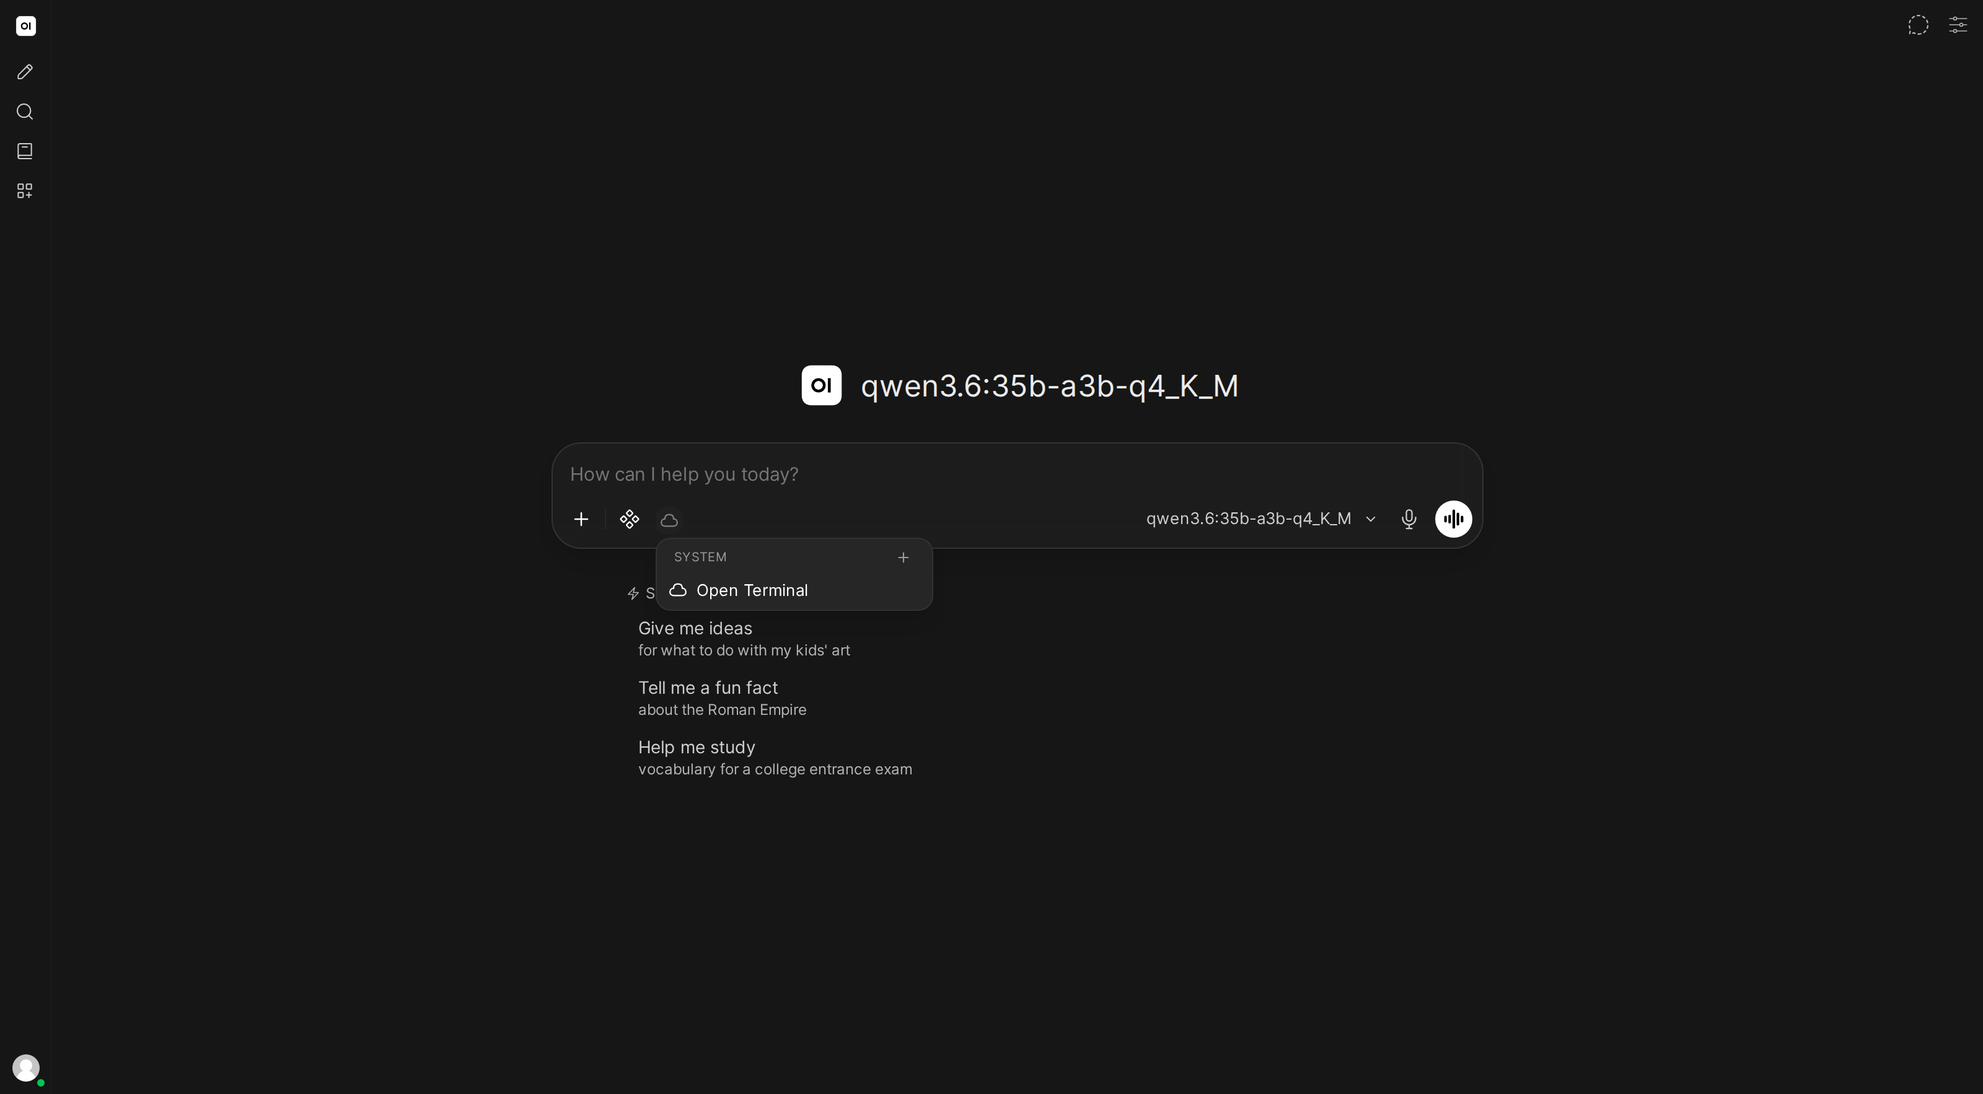
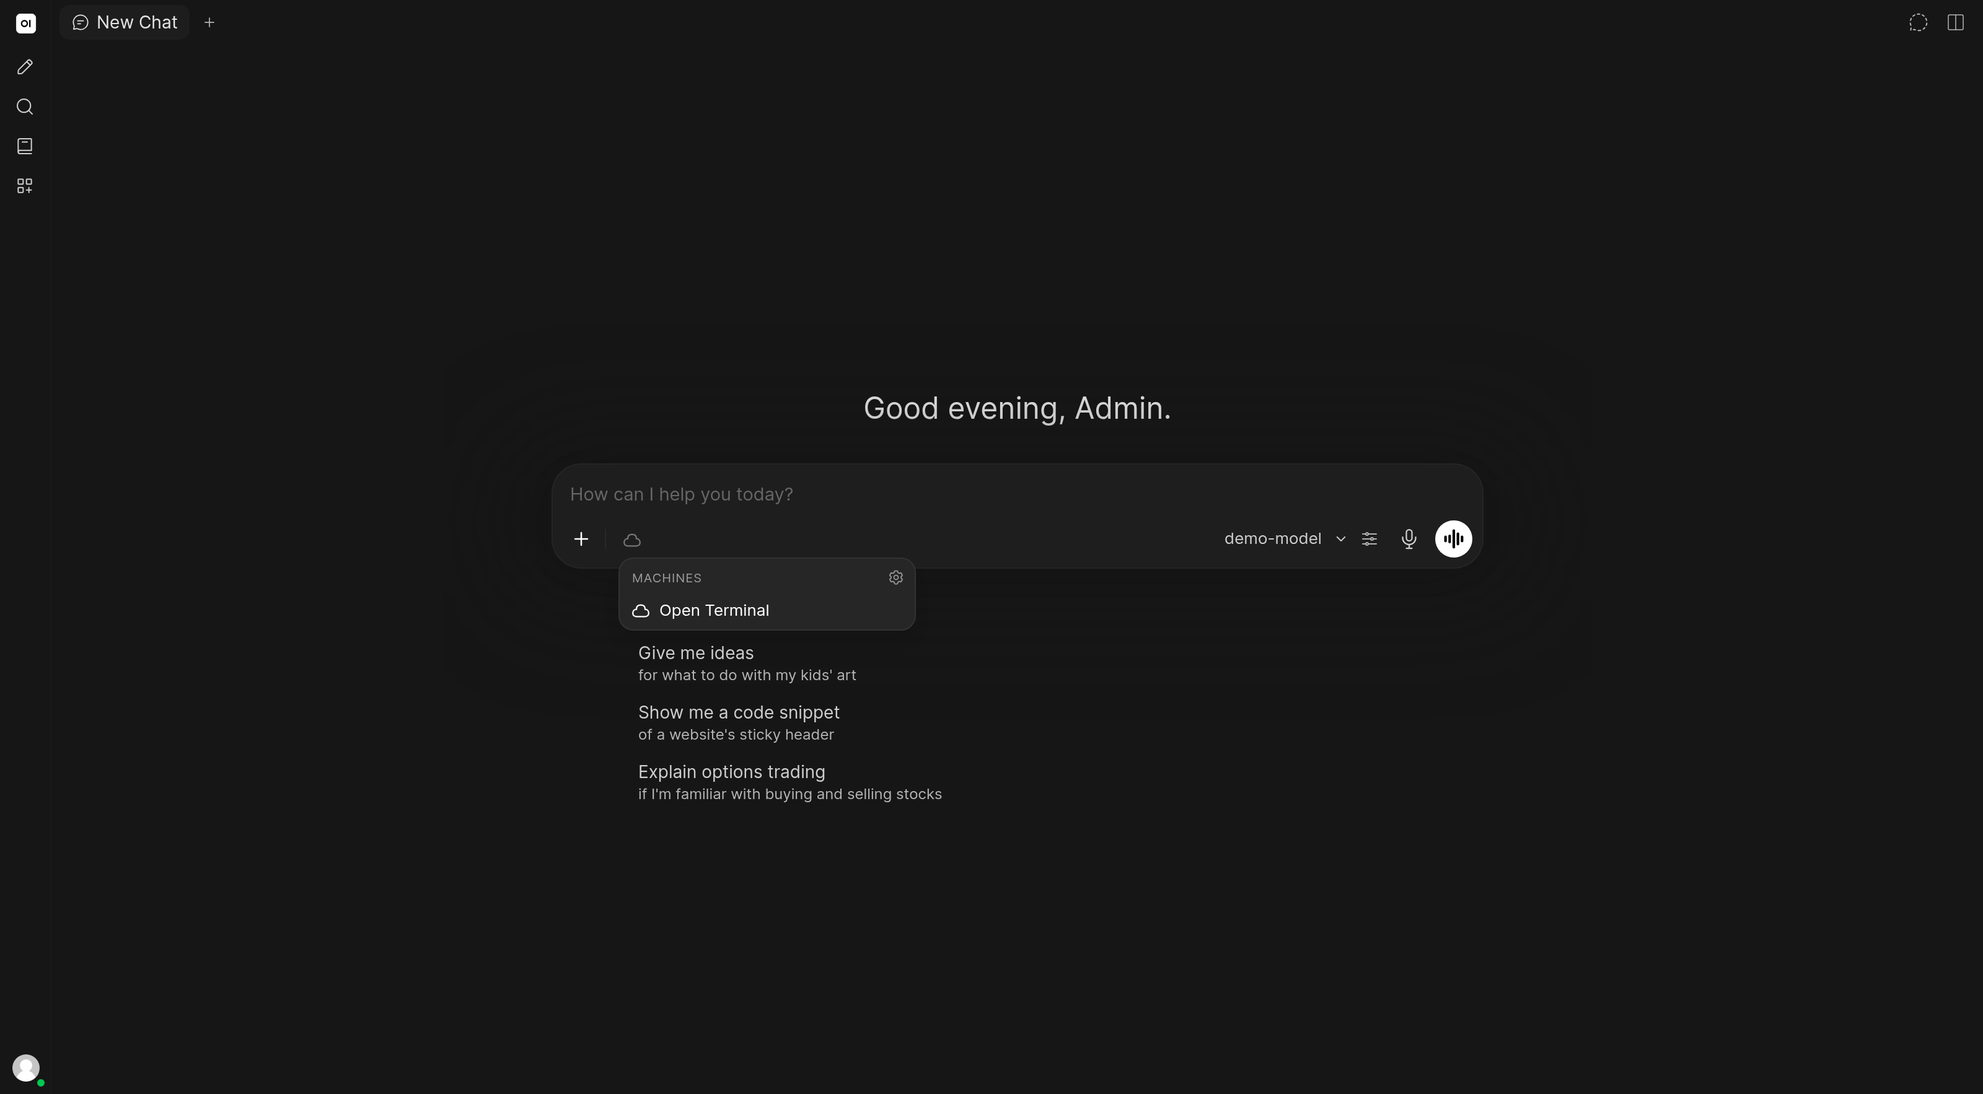
Rename terminal headings to machines and retake Open Terminal screenshots
Headings that name the object you add or pick now say machine, matching the app, and links to the renamed sections are updated. Five Open Terminal screenshots now show the Machines section, the Add Machine and Edit Machine dialogs and the machine menu in chat.

diff --git a/docs/features/open-terminal/setup/connecting.md b/docs/features/open-terminal/setup/connecting.md
@@ -51,7 +51,7 @@ Add Open Terminal in the **Machines** section, not in the **Tools** section unde
 | **User Shell Tools** | Under **Advanced**. Leave as `Automatic`. [User Shell Tools](#user-shell-tools) covers what `Always Include` changes |
 | **Forward cookies** | Under **Advanced**, off by default. Only turn it on for a machine that authenticates by cookie, since every cookie the browser holds for your Open WebUI domain travels with the request |
 
-![The form for adding an Open Terminal connection with the Name, URL, Chat Uploads and Auth fields still empty](/images/open-terminal-connection-form.png)
+![The Add Machine form with Name, URL and API Key still empty](/images/open-terminal-connection-form.png)
 
 ### 5. Save
 
@@ -66,14 +66,14 @@ Limit access to specific user groups via the access control button.
 ![The access control panel listing user groups with checkboxes](/images/open-terminal-access-grants.png)
 
 :::tip Orchestrator connections can be scoped further
-A connection to a [Terminals orchestrator](/features/open-terminal/terminals/) has **Read** and **Write** access. Users with **Write** create their own machines from the machine menu in the message input, each with its own image, resources, environment variables and sharing. See [Creating Terminals](/features/open-terminal/terminals/orchestration/creating-terminals). A direct Open Terminal connection has no machines to create and is available to everyone with access.
+A connection to a [Terminals orchestrator](/features/open-terminal/terminals/) has **Read** and **Write** access. Users with **Write** create their own machines from the machine menu in the message input, each with its own image, resources, environment variables and sharing. See [Creating Machines](/features/open-terminal/terminals/orchestration/creating-terminals). A direct Open Terminal connection has no machines to create and is available to everyone with access.
 :::
 
-### 7. Select a terminal in chat
+### 7. Select a machine in chat
 
 In the chat input area, click the cloud icon. Your machines appear under **Machines**. Select one to activate it for the conversation.
 
-![The chat input menu listing Open Terminal as a connection](/images/open-terminal-chat-dropdown.png)
+![The machine menu in the chat input listing Open Terminal](/images/open-terminal-chat-dropdown.png)
 
 The selected machine name appears next to the cloud icon. The AI can now execute commands, read files, and run code through it. You can pick another machine at any time except while a reply is generating.
 
@@ -115,7 +115,7 @@ For Docker deployments, you can configure machines automatically using the [`MAC
 
 ---
 
-## Your own terminal (Tether)
+## Your own machine (Tether)
 
 Without admin access, add a machine in the Tether app. It is yours alone and its URL and key stay on your computer. See [Bring Your Own Models and Tools](/ecosystem/tether#bring-your-own-models-and-tools).
 
@@ -214,18 +214,18 @@ docker exec open-webui curl -s http://open-terminal:8000/health
 If it prints `{"status": "ok"}`, the connection works. If it errors, the containers can't see each other.
 :::
 
-### Terminal shows up but AI doesn't use it
+### Machine shows up but AI doesn't use it
 
 Make sure:
 - The toggle switch next to the connection is **turned on**. Turning it off takes the machine out of service completely: the model is not given its tools, the terminal and file browser refuse to connect, and any proxied request to it is rejected. It is a working off switch, not just a hint to the model, so use it to retire a machine without deleting the connection.
 - You've **refreshed the page** after adding the connection
 - Your model supports tool calling (most modern models do)
 
-### Terminal is missing from the picker
+### Machine is missing from the picker
 
 Only machines the user is allowed to use are listed, so check the connection's access grants and that the connection is enabled.
 
-For an orchestrator connection, a machine is listed for you only when it is shared with you or you have **Write** access to the connection. A machine with a separate instance per chat is hidden in temporary chats because it needs a saved conversation. See [Creating Terminals](/features/open-terminal/terminals/orchestration/creating-terminals#machine-scope).
+For an orchestrator connection, a machine is listed for you only when it is shared with you or you have **Write** access to the connection. A machine with a separate instance per chat is hidden in temporary chats because it needs a saved conversation. See [Creating Machines](/features/open-terminal/terminals/orchestration/creating-terminals#machine-scope).
 
 ### Wrong API key
 

diff --git a/docs/features/open-terminal/file-browser.md b/docs/features/open-terminal/file-browser.md
@@ -222,7 +222,7 @@ With a machine selected, the **Working Directory** button (folder icon) next to 
 
 ### Cloning a repository
 
-When the machine supports Git, the **Open folder** dialog and the folder picker in the [folder settings](/features/chat-conversations/chat-features/conversation-organization#default-terminal-and-working-directory) have **Clone repository**. Enter an HTTP(S) or SSH repository URL and it is cloned into a new folder named after the repository, inside the folder you are in, which then becomes the chosen folder. The clone runs `git clone` on the terminal, so the terminal needs Git, network access to the remote and, for a private repository, credentials already set up on the terminal. Git does not prompt for a password, and an SSH host must already be in the terminal's known hosts.
+When the machine supports Git, the **Open folder** dialog and the folder picker in the [folder settings](/features/chat-conversations/chat-features/conversation-organization#default-machine-and-working-directory) have **Clone repository**. Enter an HTTP(S) or SSH repository URL and it is cloned into a new folder named after the repository, inside the folder you are in, which then becomes the chosen folder. The clone runs `git clone` on the terminal, so the terminal needs Git, network access to the remote and, for a private repository, credentials already set up on the terminal. Git does not prompt for a password, and an SSH host must already be in the terminal's known hosts.
 
 ---
 
@@ -269,7 +269,7 @@ If you have more than one machine connected, switching between them in the dropd
 :::
 
 :::info Terminals that give each chat its own files
-A machine can give every conversation an instance of its own, so each chat has its own files. Such a machine needs the conversation to exist first: the file browser appears once you have sent the first message, and a new chat lists such a machine but its files and details open once the chat is saved. Temporary chats do not list it. To browse a machine's files without selecting it, use **View files** in its **More** menu. See [Creating Terminals](/features/open-machine/machines/orchestration/creating-machines).
+A machine can give every conversation an instance of its own, so each chat has its own files. Such a machine needs the conversation to exist first: the file browser appears once you have sent the first message, and a new chat lists such a machine but its files and details open once the chat is saved. Temporary chats do not list it. To browse a machine's files without selecting it, use **View files** in its **More** menu. See [Creating Machines](/features/open-machine/machines/orchestration/creating-machines).
 :::
 
 ## More things to try

diff --git a/docs/features/open-terminal/terminals/orchestration/creating-terminals.md b/docs/features/open-terminal/terminals/orchestration/creating-terminals.md
@@ -1,9 +1,9 @@
 ---
 sidebar_position: 1
-title: "Creating Terminals"
+title: "Creating Machines"
 ---
 
-# Creating Terminals
+# Creating Machines
 
 A **machine** is a ready-made workspace the AI can run commands and work with files in. You create it yourself from the chat, give it a name and decide who can use it. Each machine starts one or more **instances**, the containers where the commands run.
 
@@ -22,7 +22,7 @@ Add the connection in **Settings > Integrations** (admin section) as described i
 | **Read** | See and use the machines that are shared with them |
 | **Write** | Create and manage machines on this server, and see every machine on it |
 
-## Create a Terminal
+## Create a Machine
 
 1. Open the machine menu in the message input (the cloud icon). With **Write** access it shows even before you have a machine.
 2. Under **Machines**, click **New machine**.
@@ -67,7 +67,7 @@ People with access to a machine can run commands in it. With **Separate instance
 
 The **Instances** list in the dialog shows every instance of the machine with its name and whether it is running or stopped. Open the **More options** menu of a row to act on it. A running instance offers **Restart** and **Stop**, plus **System info** and **View files**. A stopped one offers **Start**. Every instance offers **Delete instance**. While an action runs, the row shows what is happening (**Restarting...**, **Stopping...**, **Starting...** or **Deleting...**) with a spinner. **Delete machine** removes the machine and its instances and files.
 
-## Terminal Menu
+## Machine Menu
 
 Each machine in the menu has a **More** menu with **Restart** and **Stop** while the instance runs or **Start** while it is stopped. While the instance runs it also lists **System info** and **View files**. **Machine settings** is always there. **View files** opens the [file browser](/features/open-terminal/file-browser) for that machine without selecting it for the chat. **System info** shows CPU, memory, disk and network use, uptime and top processes, and refreshes every 5 seconds while open.
 

diff --git a/docs/features/workspace/skills.md b/docs/features/workspace/skills.md
@@ -74,7 +74,7 @@ Type `$` in the chat input, or use the `/` menu, and pick a skill. With the [ski
 
 ### Per-chat skills
 
-The **+** menu > **Skills** turns skills on for the current chat. The list is grouped into **Workspace** and the selected machine, named after it, see [Skills from a machine](#skills-from-a-terminal-server). A badge shows how many are on. Selected skills load like skills mentioned with `$`.
+The **+** menu > **Skills** turns skills on for the current chat. The list is grouped into **Workspace** and the selected machine, named after it, see [Skills from a machine](#skills-from-a-machine). A badge shows how many are on. Selected skills load like skills mentioned with `$`.
 
 ### Model-attached skills
 
@@ -115,7 +115,7 @@ Two settings in **Settings > General** (admin section) set how much of a skill t
 
 Leave a field empty for the default, or set [`SKILL_CONTENT_MAX_CHARS`](/reference/env-configuration#skill_content_max_chars) and [`SKILL_PREVIEW_MAX_CHARS`](/reference/env-configuration#skill_preview_max_chars).
 
-### Skills from a terminal server
+### Skills from a machine
 
 A connected [Open Terminal](/features/open-terminal) machine can carry its own skills, kept in the workspace next to the files they describe. Open WebUI reads them from the server and offers them in the `$` picker beside your workspace skills, under ids of the form `terminal:<url-encoded name>`. They behave like any other skill: `$` mention injects the content, otherwise they sit in the same manifest and load through `view_skill`. What gets injected carries the skill's directory and the files it ships with, so the model knows where to read them from in the workspace. `read_skill_file` pages through a terminal skill's `SKILL.md` and `grep_skill_files` searches it; its other files stay on the machine, and the model opens them with the machine's own file tools. The skill editor, version history and `update_skill_files` work on workspace skills.
 

diff --git a/docs/features/open-terminal/advanced/multi-user.md b/docs/features/open-terminal/advanced/multi-user.md
@@ -103,7 +103,7 @@ For larger deployments or when you need real isolation, [**Terminals**](../termi
 - **Resource controls**: set CPU, memory and storage limits per machine, within the server maximums
 - **Multiple environments**: users with write access create machines with different setups for different teams (e.g., data science, development) and share them with users and groups
 - **Backends**: Docker, Kubernetes or the Kubernetes Operator
-- **Scoped instances**: a machine can run one instance per user, saved chat or model, see [Creating Terminals](/features/open-terminal/terminals/orchestration/creating-terminals#machine-scope)
+- **Scoped instances**: a machine can run one instance per user, saved chat or model, see [Creating Machines](/features/open-terminal/terminals/orchestration/creating-terminals#machine-scope)
 - **Network on the Docker backend**: with `TERMINALS_DOCKER_NETWORK` set, instances share that Docker network, the orchestrator reaches each one by name and an instance can reach a port another user's instance has opened. Without it, the orchestrator reaches instances through their published ports on the Docker host. A terminal's **Network** setting picks one of the network profiles an admin defined in `TERMINALS_NETWORK_PROFILES`, which can place it on another Docker network. Files and processes stay separate. For mutually untrusted users, run the Kubernetes backend and add a NetworkPolicy
 
 ```mermaid

diff --git a/docs/reference/server-side-tool-calling.md b/docs/reference/server-side-tool-calling.md
@@ -75,7 +75,7 @@ When you pick a model in the browser, the frontend reads `meta.terminalId` off t
 You can read a model's configured terminal with `GET /api/v1/models/model?id=<model-id>` and use `meta.terminalId`, or just pick one from `/api/v1/machines/`, which already lists only the machines your user is allowed to use.
 :::
 
-### Terminal scope
+### Machine scope
 
 Machines on a Terminals server carry a `scope`: `null`, `user`, `chat` or `model`. It decides what your request must carry to use the machine:
 
@@ -85,7 +85,7 @@ Machines on a Terminals server carry a `scope`: `null`, `user`, `chat` or `model
 | `chat` | A saved `chat_id`. Each chat gets its own instance |
 | `model` | A model you have access to |
 
-Read `scope` before choosing a machine. For a `chat` machine you have to use [Path A](#path-a-full-agentic-loop) with a real saved chat, because [Path B](#path-b-one-request-answer-in-the-body) never creates one. [Creating Terminals](/features/open-terminal/terminals/orchestration/creating-terminals#machine-scope) covers what each scope does.
+Read `scope` before choosing a machine. For a `chat` machine you have to use [Path A](#path-a-full-agentic-loop) with a real saved chat, because [Path B](#path-b-one-request-answer-in-the-body) never creates one. [Creating Machines](/features/open-terminal/terminals/orchestration/creating-terminals#machine-scope) covers what each scope does.
 
 ---
 

diff --git a/docs/features/open-terminal/terminals/tab-deployment/Kubernetes.md b/docs/features/open-terminal/terminals/tab-deployment/Kubernetes.md
@@ -41,7 +41,7 @@ helm upgrade --install open-webui open-webui/open-webui \
 ```
 
 :::tip Auto-configured connection
-When `terminals.enabled` is `true`, the chart sets `TERMINAL_SERVER_CONNECTIONS` to point at the in-cluster orchestrator. In **Settings > Integrations** (admin section), open the connection and save it once, so Open WebUI detects it as an orchestrator. Give the people who create terminals **Write** access in the connection's **Access** setting, see [Creating Terminals](/features/open-terminal/terminals/orchestration/creating-terminals).
+When `terminals.enabled` is `true`, the chart sets `TERMINAL_SERVER_CONNECTIONS` to point at the in-cluster orchestrator. In **Settings > Integrations** (admin section), open the connection and save it once, so Open WebUI detects it as an orchestrator. Give the people who create terminals **Write** access in the connection's **Access** setting, see [Creating Machines](/features/open-terminal/terminals/orchestration/creating-terminals).
 :::
 
 The Terminal CRD must define `spec.templateId`. The CRD bundled with the Helm chart requires `spec.userId`, so install the CRD from the [Terminals repository](https://github.com/open-webui/terminals/blob/main/manifests/terminal-crd.yaml) for your Terminals version and set `terminals.crd.install: false`.

diff --git a/docs/features/open-terminal/terminals/tab-deployment/Docker.md b/docs/features/open-terminal/terminals/tab-deployment/Docker.md
@@ -76,7 +76,7 @@ Then start everything:
 docker compose up -d
 ```
 
-Open WebUI will be available at `http://localhost:3000`. The connection above gives every user **Read** access, so users can use terminals that are shared with them. Give the people who create terminals **Write** access in the connection's **Access** setting, see [Creating Terminals](/features/open-terminal/terminals/orchestration/creating-terminals). When a user opens a terminal, the orchestrator provisions the instance automatically.
+Open WebUI will be available at `http://localhost:3000`. The connection above gives every user **Read** access, so users can use terminals that are shared with them. Give the people who create terminals **Write** access in the connection's **Access** setting, see [Creating Machines](/features/open-terminal/terminals/orchestration/creating-terminals). When a user opens a terminal, the orchestrator provisions the instance automatically.
 
 :::warning Docker socket access
 The orchestrator needs access to the Docker socket (`/var/run/docker.sock`) to manage containers. For production, use a Docker socket proxy like [Tecnativa/docker-socket-proxy](https://github.com/Tecnativa/docker-socket-proxy) to restrict the API calls it can make.

diff --git a/docs/features/chat-conversations/chat-features/conversation-organization.md b/docs/features/chat-conversations/chat-features/conversation-organization.md
@@ -148,7 +148,7 @@ Customize the visual appearance of your folder by uploading a background image. 
 
 Pick the model new chats in this folder start with, or leave it on **Use default** to fall back to your usual default. Switching models inside one of the folder's chats leaves the folder's default as it is; change it here.
 
-### Default Terminal and Working Directory
+### Default Machine and Working Directory
 
 Under **Advanced**, **Default machine** picks the machine new chats in this folder start with. Once one is picked, **Working directory** sets the path on that machine where those chats start; leave it empty to use the machine's own default. Its folder button browses the machine's directories, where you can also [clone a Git repository](/features/open-terminal/file-browser#cloning-a-repository) into a new folder. With a default machine picked, **Default Model** also offers that machine's [coding agents](/features/open-terminal/coding-agents). These settings apply to new chats only.
 

diff --git a/docs/features/open-terminal/terminals/orchestration/index.md b/docs/features/open-terminal/terminals/orchestration/index.md
@@ -21,7 +21,7 @@ When a user works in a terminal, Open WebUI sends the request to the orchestrato
 
 ## Read This Section
 
-- [Creating Terminals](/features/open-terminal/terminals/orchestration/creating-terminals): the dialog, instance scope, sharing and managing instances.
+- [Creating Machines](/features/open-terminal/terminals/orchestration/creating-terminals): the dialog, instance scope, sharing and managing instances.
 - [Environment Variables](/features/open-terminal/terminals/orchestration/environment-variables): raw env values, quote handling, forwarding behavior and reserved keys.
 - [Custom Images](/features/open-terminal/terminals/orchestration/custom-images): build, tag, push and use custom Open Terminal images.
 - [System Prompts](/features/open-terminal/terminals/orchestration/system-prompts): generated prompts, `OPEN_TERMINAL_SYSTEM_PROMPT`, placeholders and `OPEN_TERMINAL_INFO`.

diff --git a/docs/getting-started/quick-start/connect-an-agent/index.md b/docs/getting-started/quick-start/connect-an-agent/index.md
@@ -59,7 +59,7 @@ In Open WebUI, open **Settings > Integrations** in the **Admin** section. In the
 
 Use an address reachable from the Open WebUI server: for example, `http://open-terminal:8000` on a shared Docker Compose network, or `http://localhost:8000` when both processes run directly on the same machine. For separate containers, remote hosts, and access grants, follow the [connection guide](/features/open-terminal/setup/connecting).
 
-### 4. Select a terminal and model
+### 4. Select a machine and model
 
 Start a saved chat, click the cloud icon, which reads **Machine** until you pick one, and select your machine. Then choose either:
 
